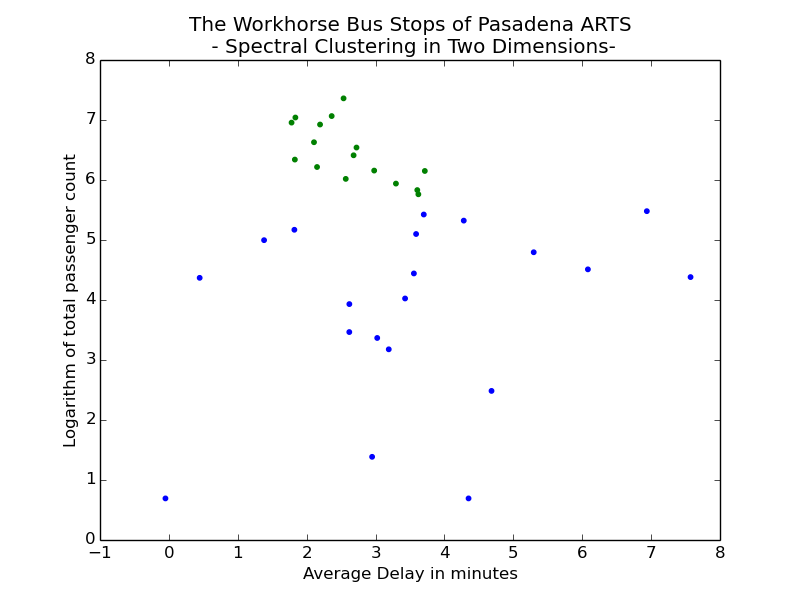
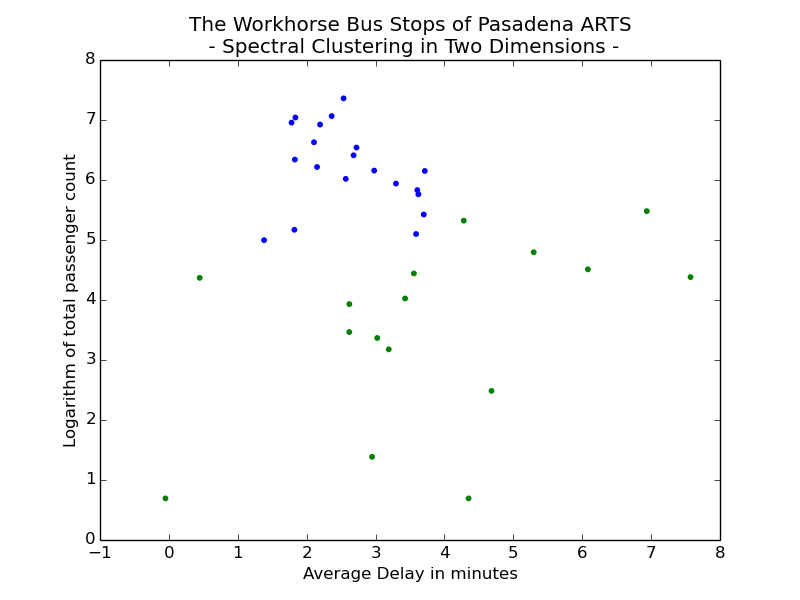
spectral clustering on scaled bus data with  better result

diff --git a/predict/stopClassifier.py b/predict/stopClassifier.py
@@ -27,22 +27,23 @@ if __name__ == "__main__":
 	stationFrame = df.groupby('station').agg({'Avg Arrival Diff': np.mean}, 'count')
 	stationCount = df.groupby('station').agg('count')
 	stationFrame['counts'] = np.log(stationCount['station'])
-	print(stationFrame)
+
 	
 	colors = np.array([x for x in 'bgrcmykbgrcmykbgrcmykbgrcmyk'])
 	colors = np.hstack([colors] * 20)
-
+	
+	stationFrameScaled = scale(stationFrame)
+	print(stationFrame)
 	
 	spectral = SpectralClustering(n_clusters=2, eigen_solver='arpack', affinity="rbf")
-	X = pd.concat([stationFrame['Avg Arrival Diff'], stationFrame['counts']])
-	fit = spectral.fit_predict(stationFrame)
+	fit = spectral.fit_predict(stationFrameScaled)
 	stationFrame['predictedClass'] = fit
 	
 	print(stationFrame)
 	fig = plt.figure()
 	plt.scatter(stationFrame['Avg Arrival Diff'],stationFrame['counts'], color = colors[fit].tolist(), s=10)
 	
-	plt.title('The Workhorse Bus Stops of Pasadena ARTS \n - Spectral Clustering in Two Dimensions-' )
+	plt.title('The Workhorse Bus Stops of Pasadena ARTS \n - Spectral Clustering in Two Dimensions -' )
 	plt.xlabel("Average Delay in minutes")
 	plt.ylabel("Logarithm of total passenger count")
 	plt.savefig('station.png')
